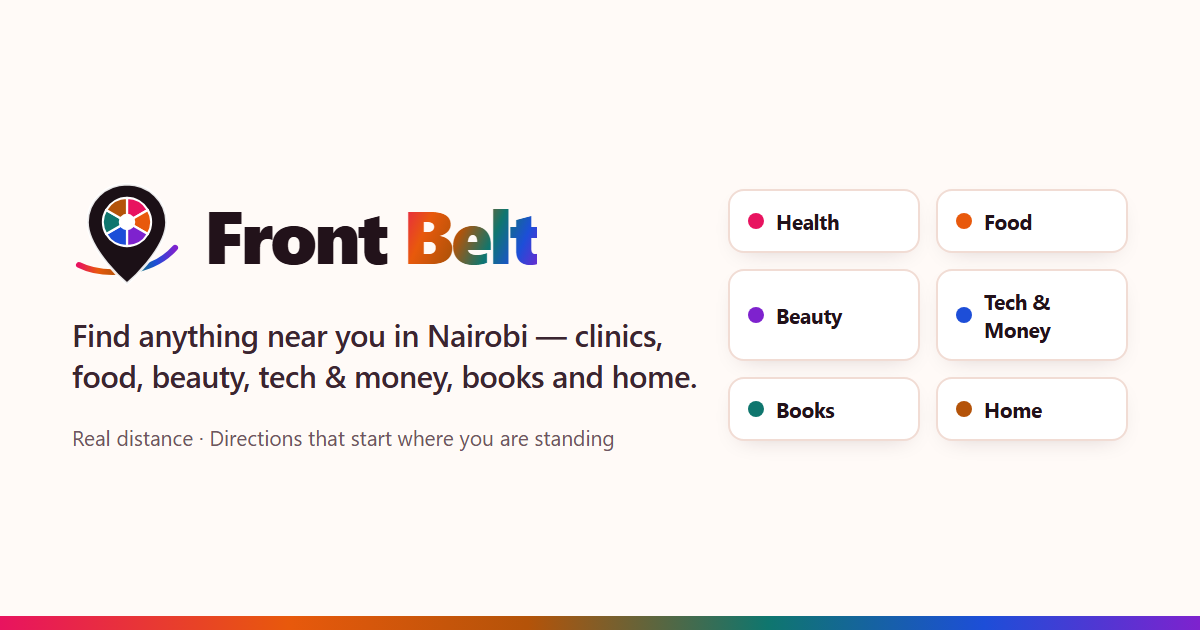
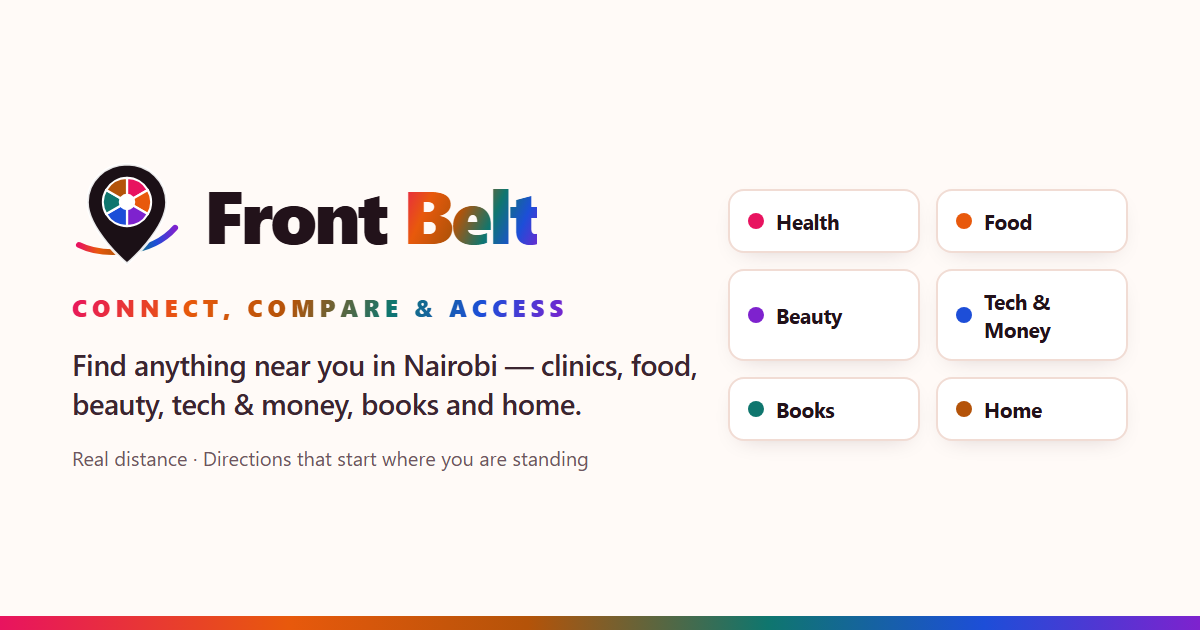
Add the slogan: Connect, Compare & Access.
It sits under the hero headline in tracked uppercase carrying the six
category colours, appears in the footer, and now also leads the link
share card.

🤖 Generated with Codebuff

Changed region(s): [[0.0617, 0.2413, 0.5858, 0.754]]

diff --git a/index.html b/index.html
@@ -109,6 +109,7 @@
         <div class="hero-copy">
           <span class="eyebrow"><svg class="ic"><use href="#i-pin"/></svg> Nairobi · early access</span>
           <h1>Find it near you.<br><span class="grad-text">Everything you need, close by.</span></h1>
+          <p class="slogan">Connect, Compare &amp; Access</p>
           <p class="sw">Jua kabla ya kwenda.</p>
           <p class="lead">Clinics, bakeries, salons, phone shops, bookshops and furniture — share your location once and Front Belt puts the closest ones first, with directions that start from where you are standing.</p>
           <div class="row">
@@ -492,7 +493,7 @@
 
 <footer class="ftr">
   <div class="wrap ftr-in">
-    <span>© Front Belt Technologies · Nairobi, Kenya</span>
+    <span>© Front Belt Technologies · Connect, Compare &amp; Access · Nairobi, Kenya</span>
     <span id="ftr-mode">Early access.</span>
     <a href="#/contact">Talk to the team</a>
   </div>

diff --git a/assets/styles.css b/assets/styles.css
@@ -192,6 +192,8 @@ label{display:flex;flex-direction:column;gap:.35rem;font-size:.86rem;font-weight
 .hero>*{min-width:0}
 @media(max-width:860px){.hero{grid-template-columns:1fr;gap:1.8rem;padding-top:.6rem}}
 .hero h1{letter-spacing:-.035em}
+/* the slogan: uppercase, tracked out, carrying the six category colours */
+.slogan{font-family:var(--display);font-weight:800;font-size:clamp(.95rem,1.7vw,1.2rem);letter-spacing:.16em;text-transform:uppercase;margin-top:.85rem;width:fit-content;background:linear-gradient(115deg,#E8135F 0%,#E8590C 24%,#B45309 44%,#0F766E 64%,#1D4ED8 82%,#7E22CE 100%);-webkit-background-clip:text;background-clip:text;color:transparent}
 .sw{font-family:var(--display);font-weight:600;color:var(--orange);font-size:.98rem;margin-top:.5rem}
 .hero .lead{font-size:1.06rem;margin-top:.9rem}
 .hero .row{margin-top:1.5rem}
